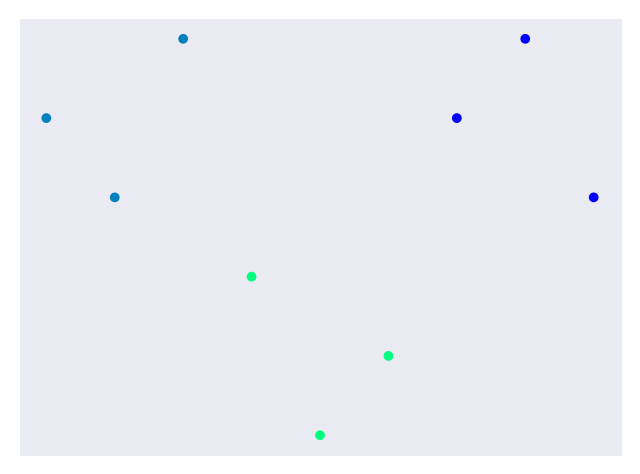
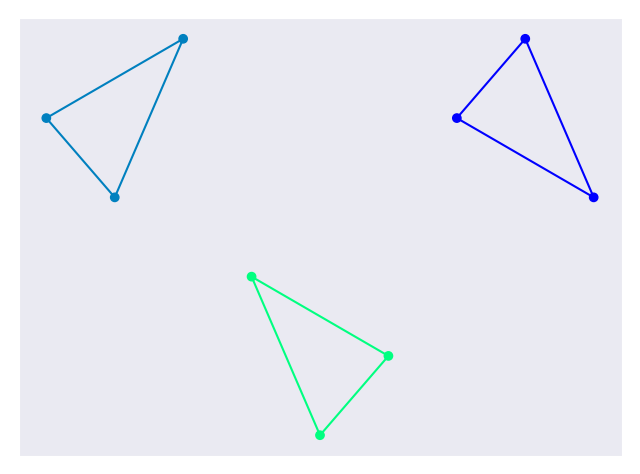
Clustering Update
+Updated text based on review
+Updated images
+Updated code for new graphics

diff --git a/code/unsupervised/Clustering/clustering_hierarchical.py b/code/unsupervised/Clustering/clustering_hierarchical.py
@@ -2,17 +2,55 @@ import matplotlib.pyplot as plt
 import seaborn as sns
 import numpy as np
 from sklearn.cluster import AgglomerativeClustering
+from collections import defaultdict
+from scipy.spatial import ConvexHull
 
-# Create a data set for analysis
+# This data set represents a toy manufacturer's product data
+#
+# The first value in the pair represents a toy:
+#    0-2: Action Figures
+#    3-5: Building Blocks
+#    6-8: Cars
+#
+# The second value is the age group that buys the most of that toy:
+#    0: 5 year-olds
+#    1: 6 year-olds
+#    2: 7 year-olds
+#    3: 8 year-olds
+#    4: 9 year-olds
+#    5: 10 year-olds
 x = np.array([[0,4], [1,3], [2,5], [3,2], [4,0], [5,1], [6,4], [7,5], [8,3]])
 
 # Set up hierarchical clustering and stop at 3 clusters
-hierarchical = AgglomerativeClustering(n_clusters=3).fit(x)
+num_clusters = 3
+hierarchical = AgglomerativeClustering(n_clusters=num_clusters).fit(x)
 
 # Plot the data
 sns.set_style("darkgrid")
-plt.scatter(x[:, 0], x[:, 1], c=hierarchical.labels_,
-            cmap=plt.get_cmap("winter"))
+colors = plt.get_cmap("winter")
+points = plt.scatter(x[:, 0], x[:, 1], c=hierarchical.labels_,
+            cmap=colors)
+
+# Draw in the cluster regions
+regions = defaultdict(list)
+# Split points based on cluster
+for index, label in enumerate(hierarchical.labels_):
+    regions[label].append(list(x[index]))
+
+# If a cluster has more than 2 points, find the convex hull for the region
+# Otherwise just draw a connecting line
+for key in regions:
+    cluster = np.array(regions[key])
+    if len(cluster) > 2:
+        hull = ConvexHull(cluster)
+        vertices = hull.vertices
+        vertices = np.append(vertices, hull.vertices[0])
+        plt.plot(cluster[vertices, 0], cluster[vertices, 1],
+                 color=points.to_rgba(key))
+    else:
+        np.append(cluster, cluster[0])
+        x_region, y_region = zip(*cluster)
+        plt.plot(x_region, y_region, color=points.to_rgba(key))
 
 # Remove ticks from the plot
 plt.xticks([])

diff --git a/code/unsupervised/Clustering/clustering_kmeans.py b/code/unsupervised/Clustering/clustering_kmeans.py
@@ -2,8 +2,22 @@ import matplotlib.pyplot as plt
 import seaborn as sns
 import numpy as np
 from sklearn.cluster import KMeans
+from scipy.spatial import Voronoi, voronoi_plot_2d
 
-# Create a data set for analysis
+# This data set represents a toy manufacturer's product data
+#
+# The first value in the pair represents a toy:
+#    0-2: Action Figures
+#    3-5: Building Blocks
+#    6-8: Cars
+#
+# The second value is the age group that buys the most of that toy:
+#    0: 5 year-olds
+#    1: 6 year-olds
+#    2: 7 year-olds
+#    3: 8 year-olds
+#    4: 9 year-olds
+#    5: 10 year-olds
 x = np.array([[0,4], [1,3], [2,5], [3,2], [4,0], [5,1], [6,4], [7,5], [8,3]])
 
 # Set up K-Means clustering with a fixed start and stop at 3 clusters
@@ -12,6 +26,20 @@ kmeans = KMeans(n_clusters=3, random_state=0).fit(x)
 # Plot the data
 sns.set_style("darkgrid")
 plt.scatter(x[:, 0], x[:, 1], c=kmeans.labels_, cmap=plt.get_cmap("winter"))
+
+# Save the axes limits of the current figure
+x_axis = plt.gca().get_xlim()
+y_axis = plt.gca().get_ylim()
+
+# Draw cluster boundaries and centers
+centers = kmeans.cluster_centers_
+plt.scatter(centers[:, 0], centers[:, 1], marker='x')
+vor = Voronoi(centers)
+voronoi_plot_2d(vor, ax=plt.gca(), show_points=False, show_vertices=False)
+
+# Resize figure as needed
+plt.gca().set_xlim(x_axis)
+plt.gca().set_ylim(y_axis)
 
 # Remove ticks from the plot
 plt.xticks([])
